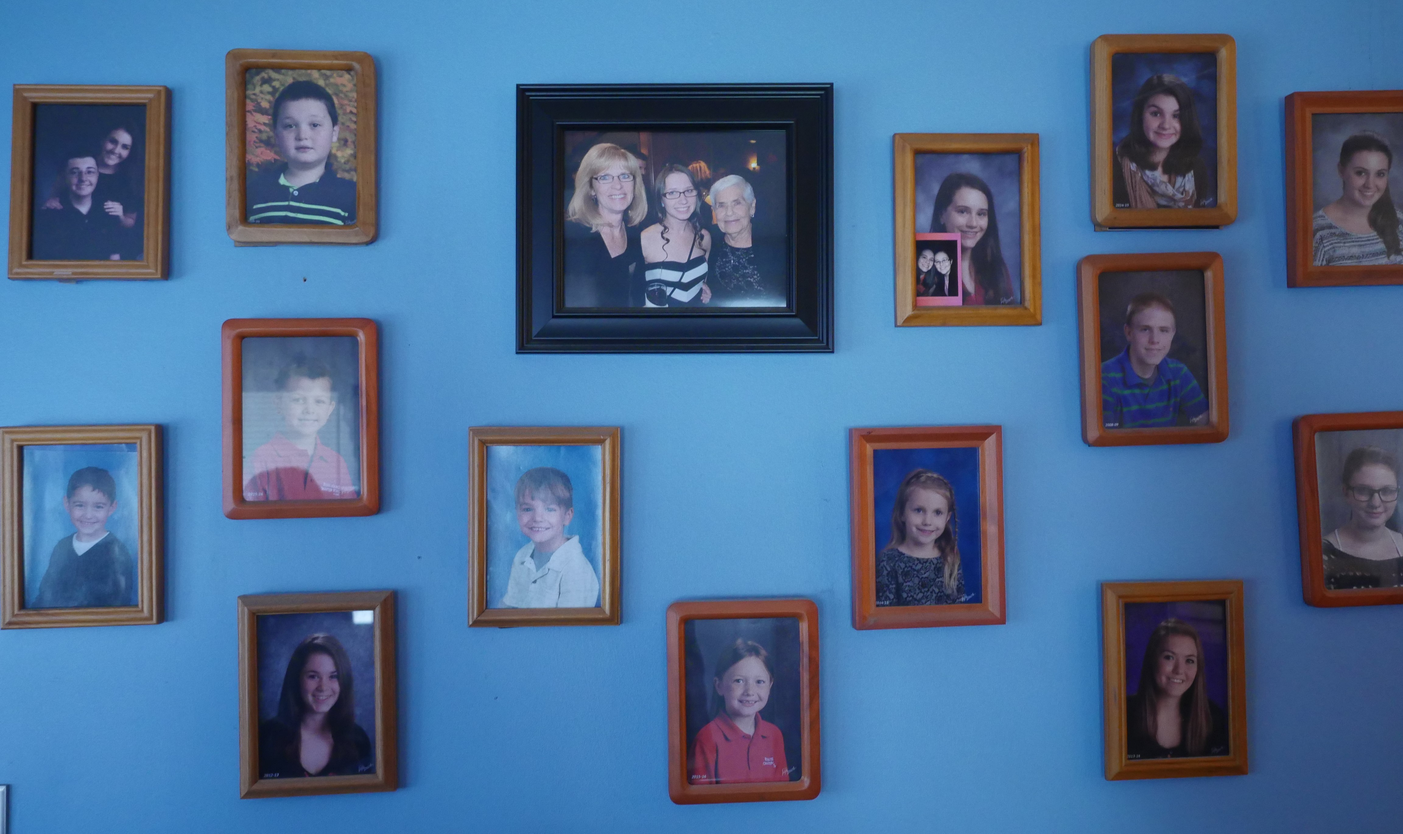
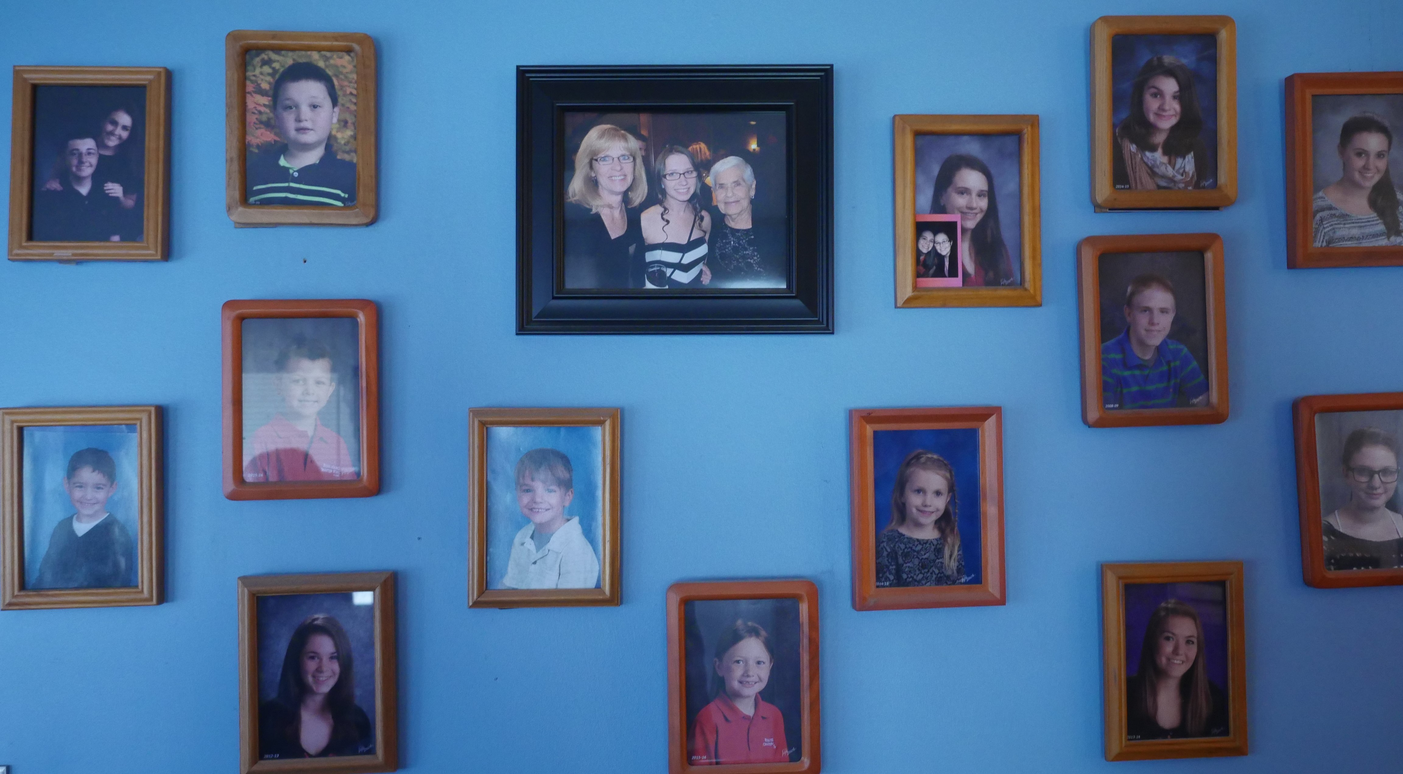
cropped images to all be approximately the same height - 2541

diff --git a/css/layout.css b/css/layout.css
@@ -19,8 +19,8 @@ p {
     top: 0;
     right: 0;
     bottom: auto;
-    width: 100%;
-    z-index: 0;
+    /* width: 100%; */
+    /* z-index: 0; */
 }
 
 /* remain fixed when inside the "sticky" area */
@@ -55,16 +55,6 @@ p {
     opacity: 1;
     z-index: 500;
 }
-
-/* .scroll__graphic #chart {
-    position: absolute;
-    z-index: 0;
-    right: 1rem;
-    top: 50%;
-    -moz-transform: translateY(-75%);
-    -webkit-transform: translateY(-75%);
-    transform: translateY(-75%);
-} */
 
 .step p {
     margin: 0 auto;
@@ -141,15 +131,6 @@ footer {
         position: fixed; 
         bottom: 0;
         top: auto;
-    }
-
-    .scroll__graphic #chart {
-        right: 0;
-        bottom: 0;
-        top: auto;
-        -moz-transform: translateY(25%);
-        -webkit-transform: translateY(25%);
-        transform: translateY(25%); 
     }
 
     .scroll__text {
